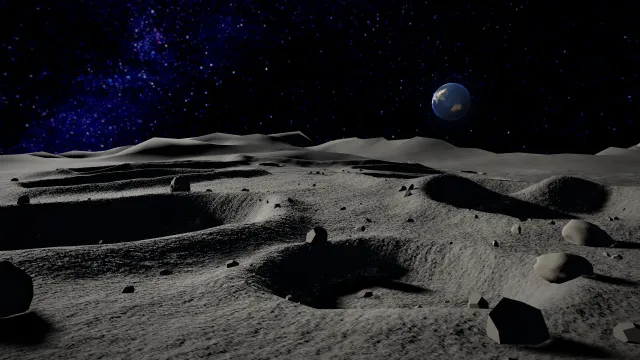
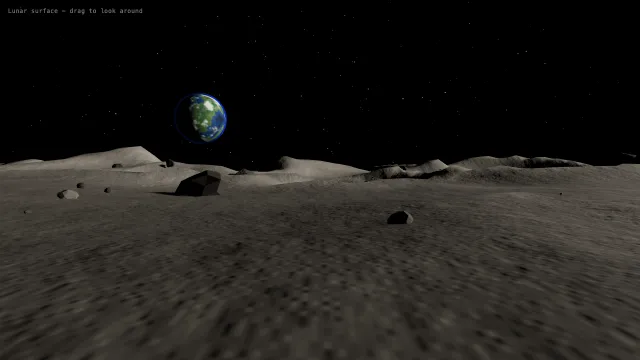
docs(readme): rerun the five-mode prompt with Opus as main and DeepSeek as worker
The table now comes from the v2.0.72 commit, where the main model hands
multi-step work to the worker: it shows main and worker calls per mode.

diff --git a/README.md b/README.md
@@ -99,26 +99,30 @@ turns out harder. Subagents inherit Auto and adapt independently.
 
 ### One prompt, five modes
 
-The same prompt in each mode, with DeepSeek V4.1 Flash Ultrafast as the main
-model and GLM 5.3 Flash Ultrafast as the worker (both through OpenGateway):
+The same prompt in each mode, with Claude Opus 5.5 as the main model and
+DeepSeek V4.1 Flash Ultrafast as the worker:
 
 > Create a view of moon surface and the sky, photorealistic. in three.js
 
 | Mode | Result | Cost | Time | Tokens | Model calls |
 | --- | --- | ---: | ---: | ---: | --- |
-| **UltraSave** | <img src="docs/images/moon/ultrasave.webp" width="320" alt="UltraSave: grey terrain under a starfield"> | **$0.0019** (0.013x) | **2 min 5 s** (0.047x) | 0.39M | 21 GLM |
-| **UltraFast** | <img src="docs/images/moon/ultrafast.webp" width="320" alt="UltraFast: cratered terrain with low-sun shadows and Earth"> | $0.0873 (0.62x) | 31 min 9 s (0.71x) | 15.9M | 143 DeepSeek |
-| **UltraCode** | <img src="docs/images/moon/ultracode.webp" width="320" alt="UltraCode: boulder field with long shadows, Earth and a faint Milky Way"> | $0.2070 (1.46x) | 63 min 36 s (1.44x) | 41.8M | 200 DeepSeek |
-| **Auto** | <img src="docs/images/moon/auto.webp" width="320" alt="Auto: rock-strewn plain with Earth in the sky"> | $0.0620 (0.44x) | 22 min 43 s (0.52x) | 9.2M | 90 DeepSeek |
-| **Normal** | <img src="docs/images/moon/normal.webp" width="320" alt="Normal: craters and boulders under the Milky Way with Earth"> | $0.1417 (1.00x) | 44 min 4 s (1.00x) | 30.1M | 175 DeepSeek |
+| **UltraSave** | <img src="docs/images/moon/ultrasave.webp" width="320" alt="UltraSave: cratered plain with boulders, the Sun and a crescent Earth"> | **$0.058** (0.40x) | 16 min 18 s (3.57x) | 6.2M | 86 DeepSeek |
+| **UltraFast** | <img src="docs/images/moon/ultrafast.webp" width="320" alt="UltraFast: large boulders casting shadows under a starfield with Earth"> | $0.577 (4.00x) | 8 min 7 s (1.77x) | 0.5M | 18 Opus |
+| **UltraCode** | <img src="docs/images/moon/ultracode.webp" width="320" alt="UltraCode: rugged craters in low sunlight with the Sun and a crescent Earth"> | $1.011 (7.00x) | 15 min 29 s (3.39x) | 7.8M | 19 Opus, 73 DeepSeek |
+| **Auto** | <img src="docs/images/moon/auto.webp" width="320" alt="Auto: bright regolith plain with distant craters and Earth"> | $0.508 (3.52x) | 15 min 29 s (3.39x) | 6.0M | 8 Opus, 77 DeepSeek |
+| **Normal** | <img src="docs/images/moon/normal.webp" width="320" alt="Normal: rolling terrain with rocks and Earth above the horizon"> | $0.145 (1.00x) | **4 min 34 s** (1.00x) | 1.9M | 5 Opus, 32 DeepSeek |
 
 Ratios are against Normal. One run per mode, all five started at the same time
-on 2026-11-12 with distill 2.0.9 (39f1c6fe0bf8); each finished with exit code 0.
-Cost uses OpenGateway's billed prices that day (DeepSeek $0.09/M input,
-$0.36/M output, $0.0018/M cached; GLM $0.015/M, $0.05/M, $0.003/M) and leaves
-out the Jev routing calls, which have no published price. UltraCode ended with
-`Verification: UNVERIFIED`. Thumbnails are frames captured in headless Chrome
-at 1280×720.
+on 2026-11-12 with distill 2.0.9 (9bbf0aafec73), the commit of v2.0.72; each
+finished with exit code 0. A single run per mode carries run-to-run variation:
+here Normal handed the build to the worker once and accepted the first result,
+so it finished first, while UltraFast kept all 18 rounds on Opus. UltraSave led
+on the worker, and UltraCode ended with `Verification: REVIEWED`. Cost is an
+estimate: Opus at list API prices ($4/M input, $0.20/M cached, $5/M cache
+write, $20/M output; the runs used a Claude subscription) and DeepSeek at
+OpenGateway's billed prices ($0.09/M input, $0.36/M output, $0.0018/M cached),
+without the Jev routing calls, which have no published price. Thumbnails are
+frames captured in headless Chrome at 1280×720.
 
 Details:
 [UltraSave](docs/ultrasave.md), [UltraFast](docs/ultrafast.md) and
